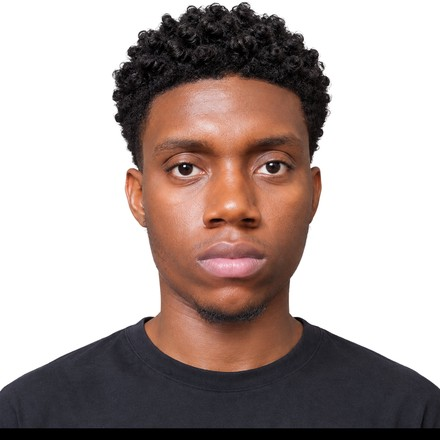
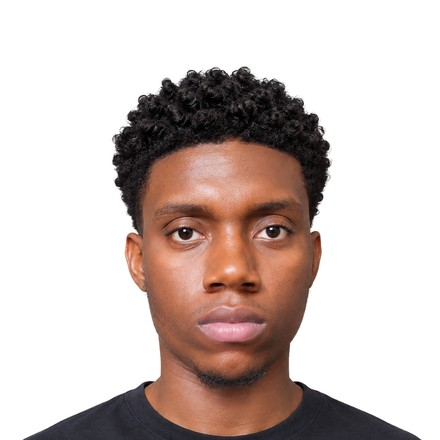
Home: portrait headroom above head + lighter ring (0.1)

diff --git a/components/home/benji.module.css b/components/home/benji.module.css
@@ -69,7 +69,7 @@
   display: block;
   background: #fff;
   box-shadow:
-    0 0 0 0.5px rgba(140, 110, 30, 0.22), /* 0.5px warm ring border */
+    0 0 0 0.5px rgba(140, 110, 30, 0.1), /* 0.5px warm ring border */
     0 2px 7px rgba(140, 110, 30, 0.14);   /* soft shadow beneath */
 }
 .headText { min-width: 0; }
